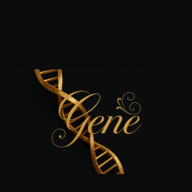
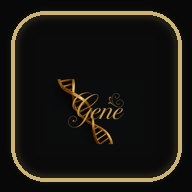
Add files via upload

Changed region(s): [[0.0312, 0.0312, 0.9688, 0.9688], [0.25, 0.6875, 0.2812, 0.75]]

diff --git a/assets/style.css b/assets/style.css
@@ -63,3 +63,15 @@ canvas{
   .calendar-cell{min-height:86px;padding:7px;font-size:12px}
   .calendar-item{font-size:10px}
 }
+
+
+/* unified app icon */
+.brand-mark img,
+.brand-logo img{
+  width:72px;
+  height:72px;
+  object-fit:contain;
+  border-radius:18px;
+  background:#0b0b0b;
+  padding:4px;
+}

diff --git a/service-worker.js b/service-worker.js
@@ -1,4 +1,4 @@
-const CACHE_NAME="gene-pwa-cache-v2";
+const CACHE_NAME="gene-pwa-cache-v3";
 const ASSETS=["./","./index.html","./manifest.webmanifest","./assets/style.css","./assets/app.js","./assets/icon-192.svg","./assets/icon-512.svg"];
 self.addEventListener("install",e=>{e.waitUntil(caches.open(CACHE_NAME).then(c=>c.addAll(ASSETS)));self.skipWaiting()});
 self.addEventListener("activate",e=>{e.waitUntil(caches.keys().then(keys=>Promise.all(keys.filter(k=>k!==CACHE_NAME).map(k=>caches.delete(k)))));self.clients.claim()});